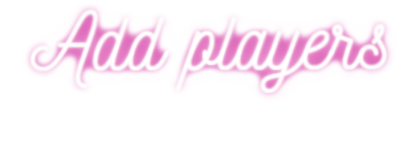
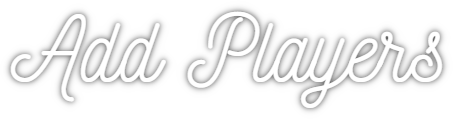
.............

Changed region(s): [[0.0, 0.0504, 0.9905, 0.9328]]

diff --git a/wwwroot/css/Style.css b/wwwroot/css/Style.css
@@ -211,13 +211,6 @@ img
 
 }
 
-.bottomlogo-img {
-    position: absolute;
-    bottom: 0;
-    width: 100%;
-    border-top: 1px solid #FCDDDD;
-    z-index: -1;
-}
 
 .playernames-img
 {
@@ -225,32 +218,44 @@ img
     width: 60%;
 }
 
-.players-header {
-    font-family: "Playfair Display", serif;
-  
+.playernames-header-container
+{
+    position: absolute;
+    width: 100%;
+    top: 4%;
+    display: flex;
+    justify-content: center;
 }
 
-.deck-outer-container
+.players-header {
+    font-family: "Playwrite AT", cursive;
+    color: white;
+    font-size: 2.2rem;
+}
+
+.deck-outer-container 
 {
     position: fixed;
     height: 100vh;
     width: 100vw;
     overflow: scroll;
+    background: rgb(247,137,209);
+    background: linear-gradient(0deg, rgba(247,137,209,1) 8%, rgba(210,146,189,1) 38%, rgba(164,32,118,1) 96%);
 }
 
 .select-deck-header-container {
     position: absolute;
-    color: white;
-    top: 10%;
+    top: 5%;
     display: flex;
     justify-content: center;
-    align-items: center;
+    align-items: flex-end;
     width: 100vw;
+
 }
 
 
 .name-input {
-    border-radius: 10px;
+    border-radius: 20px;
     width: 75%;
     margin-bottom: 4%;
 
@@ -389,7 +394,7 @@ img
 
 
 .kiss-img {
-    width: 85%;
+    width: 65%;
     position: absolute;
     bottom: 0;
   
@@ -484,7 +489,8 @@ img
 }
 
 
-.remove-btn {
+.remove-btn 
+{
     width: 35px;
     height: 35px;
     border-radius: 50%;
@@ -533,37 +539,45 @@ img
 .deck-header {
     padding: 1%;
     margin-top: 2%;
-    font-size: 1.8rem;
+    font-size: 1.4rem;
     width: 80%;
-
     border-radius: 20px;
     text-align: center;
+    text-shadow: 4px 4px 8px rgba(0, 0, 0, 1);
+    color: white;
+
 }
 
-.my-decks-container {
+.my-decks-container 
+{
     padding: 3%;
     width: 100%;
     margin: 0 auto;
-    margin-top: 25%;
+    margin-top: 20%;
     display: flex;
     flex-direction: column;
 
 }
 
 .select-deck-header-container {
-    width: 100vw;
-    color: white;
-    font-family: "Playfair Display", serif;
-    text-align: center;
-    display: flex;
     position: absolute;
-    top: 4%;
+    color: white;
+    top: 0;
+    display: flex;
+    justify-content: center;
+    align-items: flex-start;
+    width: 100vw;
+}
+
+.select-deck-header
+{
+    margin-top: 3%;
 }
 
 .select-deck-header {
-    font-family: "Playfair Display", serif;
-    padding: 2%;
-    font-weight: bold;
+    font-family: "Playwrite AT", cursive;
+    color: white;
+    font-size: 2.2rem;
 }
 
 .fixed-back-btn {
@@ -581,16 +595,11 @@ img
     max-width: 60%;
     height: auto;
     border-radius: 10px;
-    background-color: rgba(255, 192, 203, 0.5);
-    box-shadow: 5px 5px 10px rgba(0, 0, 0, 0.8);
-    padding: 5%;
 }
 
 .select-deck-img {
-    width: 25%;
-    border-radius: 50%;
+    width: 50%;
 
-  
 }
 
 .select-deck-container 
@@ -601,12 +610,13 @@ img
     align-items: center;
     margin-bottom: 8%;
     border-radius: 10%;
+
 }
 
 .modal-hearts-bg
 {
     position: absolute;
-    opacity: .1;
+    opacity: .3;
     width: 95%;
 
 }
@@ -641,9 +651,10 @@ img
 }
 
 .deck-modal-header {
-    font-size: 25px;
+    font-size: 2rem;
     font-weight: 600;
     padding: 4%;
+    color: white;
     font-family: "Playwrite SK";
 }
 
@@ -669,8 +680,8 @@ img
     border-radius: 25px;
     left: 50%;
     transform: translate(-50%, -50%);
-    background: rgb(250,208,228);
-    background: radial-gradient(circle, rgba(250,208,228,1) 0%, rgba(239,227,234,1) 100%);
+    background: rgb(247,137,209);
+    background: linear-gradient(0deg, rgba(247,137,209,1) 8%, rgba(210,146,189,1) 38%, rgba(227,66,170,1) 96%);
     z-index: 1000;
 }
 
@@ -705,6 +716,7 @@ img
     transform: translate(-50%, -50%); /* Flytta tillbaka 50% av elementets egna höjd och bredd */
     width: 80%;
     padding: 5%;
+    color: white;
     border-radius: 16px;
     box-shadow: 0 4px 30px rgba(0, 0, 0, 0.1);
     backdrop-filter: blur(2.9px);
@@ -799,7 +811,7 @@ img
     position: relative;
     width: 15rem;
     height: auto;
-    z-index: -1;
+    z-index: 3;
   
 }
 
@@ -824,6 +836,8 @@ img
 
     align-items: flex-end;
     height: 70vh;
+    border:2px solid red;
+    
 }
 
 .yes-image
@@ -931,18 +945,22 @@ img
 .navigate-btn-container {
     position: absolute;
     z-index: 1;
-    border: 2px solid white;
     top: 2%; 
     border-radius: 50%;
 
 
 }
 
-.back-btn-size
-{
+.forward-btn-size {
     width: 25px;
     height: 25px;
+    color: white;
+}
 
+.back-btn-size {
+    width: 25px;
+    height: 25px;
+    color: white;
 }
 
 
@@ -993,13 +1011,14 @@ img
     flex-direction: column;
     height: 100%;
     justify-content: end;
-    background: linear-gradient(0deg, rgb(247, 247, 247) 23.8%, rgb(252, 221, 221) 92%);
+ 
 }
 
-.ShowCards-Container {
-    position: absolute;
-    background: linear-gradient(0deg, rgb(247, 247, 247) 23.8%, rgb(252, 221, 221) 92%);
-    height: 100%;
+.showCards-Container {
+    position: fixed;
+    
+    height: 100vh;
+    width:100vw;
 }
 
 .text-container {
@@ -1023,17 +1042,24 @@ img
 {
     position: absolute;
     top: 2%;
-    right: 15%;
+    right: 7%;
     
 }
 
+.continue-btn
+{
+    position: absolute;
+      bottom: 50%;
+}
+
 .forward-btn {
-    width: 50px;
-    height: 50px;
+    width: 25px;
+    height: 25px;
+    color: white;
     padding: 1%;
     z-index: 1;
     position: absolute;
-    border-radius: 50%;
+    background-color: inherit;
 }
 
 p {

diff --git a/wwwroot/index.html b/wwwroot/index.html
@@ -12,6 +12,9 @@
     <link href="https://cdn.jsdelivr.net/npm/bootstrap-icons@1.11.3/font/bootstrap-icons.min.css" rel="stylesheet" />
     <!--<link href="_content/Blazor.Bootstrap/blazor.bootstrap.css" rel="stylesheet" />-->
     <!-- Google Fonts -->
+    <link rel="preconnect" href="https://fonts.googleapis.com">
+    <link rel="preconnect" href="https://fonts.gstatic.com" crossorigin>
+    <link href="https://fonts.googleapis.com/css2?family=Playfair+Display:ital,wght@0,400..900;1,400..900&family=Playwrite+AT:ital,wght@0,100..400;1,100..400&family=Poppins:ital,wght@0,100;0,200;0,300;0,400;0,500;0,600;0,700;0,800;0,900;1,100;1,200;1,300;1,400;1,500;1,600;1,700;1,800;1,900&display=swap" rel="stylesheet">
     <link href='https://fonts.googleapis.com/css?family=Afacad' rel='stylesheet'>
     <link href='https://fonts.googleapis.com/css?family=Bellota' rel='stylesheet'>
     <link href='https://fonts.googleapis.com/css?family=Junge' rel='stylesheet'>
